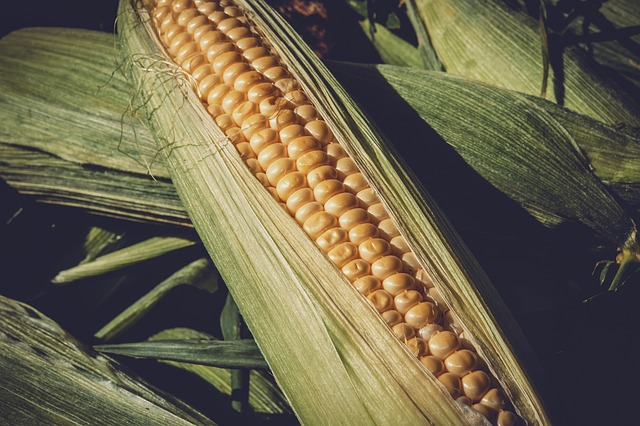
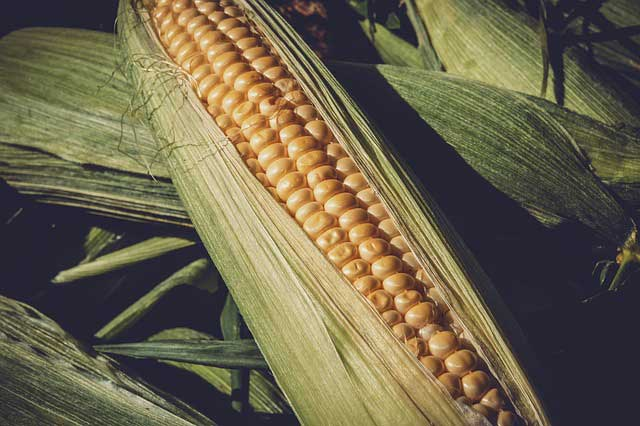
redução do tamanho das imagens

diff --git a/index.html b/index.html
@@ -2,7 +2,7 @@
 <html>
 <head>
     <meta charset="utf-8" />
-    <title>Plantações - SECA</title>
+    <title>SECA</title>
     <meta name="viewport" content="width=device-width, initial-scale=1, shrink-to-fit=no">
     <!--Bootstrap CSS-->
     <link href="https://stackpath.bootstrapcdn.com/bootstrap/4.1.3/css/bootstrap.min.css" rel="stylesheet" integrity="sha384-MCw98/SFnGE8fJT3GXwEOngsV7Zt27NXFoaoApmYm81iuXoPkFOJwJ8ERdknLPMO" crossorigin="anonymous">
@@ -51,7 +51,7 @@
         <div class="carousel-inner" role="listbox">
           <div class="carousel-item active">
             <div class="background">
-              <img class="d-block w-100" src="img/slide1.png" alt="Primeiro Slide">
+              <img class="d-block w-100" src="img/slide1.jpg" alt="Primeiro Slide">
             </div>
             <div class="carousel-caption d-none d-md-block" style="text-align: left;">
               <h2>CONTROLE<br> O CONSUMO DE ÁGUA NA SUA FAZENDA!</h3>

diff --git a/plantacoes.html b/plantacoes.html
@@ -2,7 +2,7 @@
 <html>
 <head>
     <meta charset="utf-8" />
-    <title>SECA</title>
+    <title>Plantações - SECA</title>
     <meta name="viewport" content="width=device-width, initial-scale=1, shrink-to-fit=no">
     <!--Bootstrap CSS-->
     <link href="https://stackpath.bootstrapcdn.com/bootstrap/4.1.3/css/bootstrap.min.css" rel="stylesheet" integrity="sha384-MCw98/SFnGE8fJT3GXwEOngsV7Zt27NXFoaoApmYm81iuXoPkFOJwJ8ERdknLPMO" crossorigin="anonymous">
